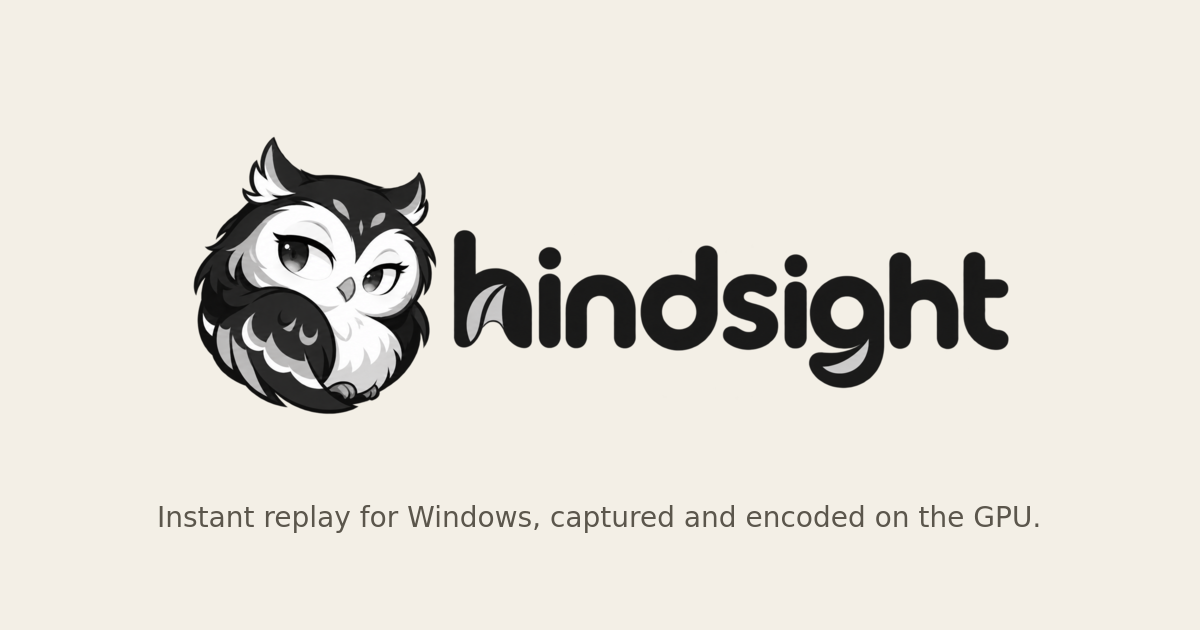
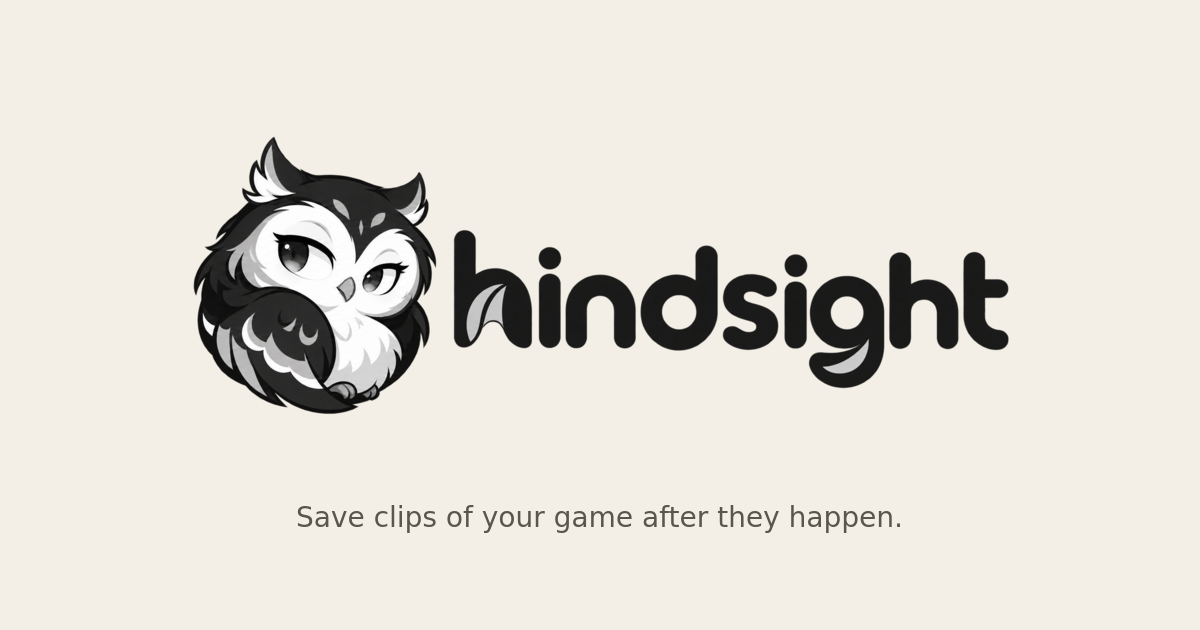
Say plainly what hindsight does
The README and the site led with "the lowest-overhead instant replay for
Windows", which means nothing to someone who has not used Instant Replay. They
now open with what it does, saving clips of the game after they happen, explain
the background buffer and the hotkey in a sentence, and then compare it with
NVIDIA's Instant Replay. The feature list gives the buffer's range, 5 seconds
to 10 minutes, rather than only where it is kept, and the page's title,
descriptions and social card follow.

Changed region(s): [[0.1233, 0.7841, 0.8633, 0.8444]]

diff --git a/site/src/App.vue b/site/src/App.vue
@@ -40,13 +40,18 @@ const attestCommand = `gh attestation verify ${installerName} --repo ${repositor
     <section class="hero" aria-labelledby="hero-title">
       <div class="pitch">
         <img class="wordmark" :src="wordmark" alt="hindsight" width="520" height="183" />
-        <h1 id="hero-title" class="headline">
-          The lowest&#8209;overhead instant replay for Windows.
-        </h1>
-        <p class="lede">
-          Captured and encoded on the GPU. No overlay, no launcher, no account. Press
-          <KeyCombo :keys="hotkey" /> to keep what just happened.
-        </p>
+        <h1 id="hero-title" class="headline">Save clips of your game after they happen.</h1>
+        <div class="lede">
+          <p>
+            hindsight quietly records your game, keeping only the last few moments. When something
+            worth keeping happens, press <KeyCombo :keys="hotkey" /> and what you just played is
+            saved as a video. No need to hit record first.
+          </p>
+          <p>
+            Like NVIDIA's Instant Replay, with less overhead: captured and encoded on the GPU. No
+            overlay, no launcher, no account.
+          </p>
+        </div>
         <DownloadCard :release="release" />
       </div>
 
@@ -88,7 +93,10 @@ const attestCommand = `gh attestation verify ${installerName} --repo ${repositor
         </li>
         <li>
           <h3>Press <KeyCombo :keys="hotkey" /> to save a clip.</h3>
-          <p>Change the hotkey, codec, frame rate and buffer in the Settings tab.</p>
+          <p>
+            It saves what you just played. Change how much it keeps, the hotkey, codec and frame
+            rate in the Settings tab.
+          </p>
         </li>
       </ol>
     </PageSection>
@@ -282,6 +290,14 @@ nav a:hover {
   color: var(--ink-soft);
   font-size: 1.12rem;
   line-height: 1.65;
+}
+
+.lede p {
+  margin: 0 0 0.75rem;
+}
+
+.lede p:last-child {
+  margin-bottom: 0;
 }
 
 .shot {

diff --git a/site/index.html b/site/index.html
@@ -3,10 +3,10 @@
   <head>
     <meta charset="UTF-8" />
     <meta name="viewport" content="width=device-width, initial-scale=1" />
-    <title>hindsight — low-overhead instant replay for Windows</title>
+    <title>hindsight — save clips of your game after they happen</title>
     <meta
       name="description"
-      content="The lowest-overhead instant replay for Windows: captured and encoded on the GPU, no overlay, no launcher, no account. Free and open source."
+      content="hindsight records your game in the background and saves what just happened as a clip when you press a hotkey. Like NVIDIA Instant Replay, with less overhead. Free and open source, for Windows."
     />
     <meta name="theme-color" content="#f3efe6" />
     <link rel="icon" type="image/png" href="/favicon.png" />
@@ -15,7 +15,7 @@
     <meta property="og:title" content="hindsight" />
     <meta
       property="og:description"
-      content="The lowest-overhead instant replay for Windows. Captured and encoded on the GPU."
+      content="Save clips of your game after they happen. Low-overhead instant replay for Windows."
     />
     <meta property="og:url" content="https://malinoskj2.github.io/hindsight/" />
     <meta property="og:image" content="https://malinoskj2.github.io/hindsight/og.png" />

diff --git a/site/src/content.ts b/site/src/content.ts
@@ -18,8 +18,8 @@ export const features = [
     body: "Less CPU and fewer lost frames than NVIDIA's at the same settings, measured in-game.",
   },
   {
-    title: "Buffer in RAM, VRAM or on disk.",
-    body: "Keep the replay wherever your machine has room to spare.",
+    title: "Keep 5 seconds to 10 minutes.",
+    body: "Hold the recent gameplay in RAM, VRAM or on disk, wherever your machine has room to spare.",
   },
   {
     title: "H.264, HEVC or AV1 at up to 240 fps.",

diff --git a/README.md b/README.md
@@ -8,11 +8,15 @@
   <img src="assets/logo/monochrome-with-text.png" alt="hindsight" width="520">
 </p>
 
-**The lowest-overhead instant replay for Windows: captured and encoded on the GPU, no overlay, no launcher, no bloat.**
+**Save clips of your game after they happen.**
+
+hindsight quietly records your game in the background, keeping only the last few moments. When something worth keeping happens, press **Alt+F10** and what you just played is saved as a video. You never have to remember to hit record first.
+
+It does the same job as NVIDIA's Instant Replay (part of ShadowPlay) with less overhead: captured and encoded on the GPU, no overlay, no launcher, no bloat.
 
 - **A tray icon and one small window.** No overlay, no account, no launcher.
 - **Cheaper than Instant Replay.** Less CPU and fewer lost frames than NVIDIA's at the same settings, measured in-game.
-- **Buffer in RAM, VRAM or on disk**, your choice.
+- **Keep anywhere from 5 seconds to 10 minutes**, buffered in RAM, VRAM or on disk.
 - **H.264, HEVC or AV1** at up to 240 fps, with system sound and, if you like, your microphone as AAC.
 
 <p align="center">
@@ -25,7 +29,7 @@ You need **64-bit Windows 10 version 1903 or newer**, and an **NVIDIA GPU** with
 
 1. Download **`hindsight-setup-x64.exe`** from the [Releases page](https://github.com/malinoskj2/hindsight/releases) and run it.
 2. Launch **hindsight** from the Start menu. It waits for a full-screen app, then records it.
-3. Press **Alt+F10** (or the hotkey you set) to save a clip.
+3. Play. When something happens that you want to keep, press **Alt+F10** (or the hotkey you set) to save what just happened as a clip.
 4. Optional: read [Getting the best performance](docs/performance.md) for what each setting costs and what to choose for your hardware.
 
 ## How it stays light
